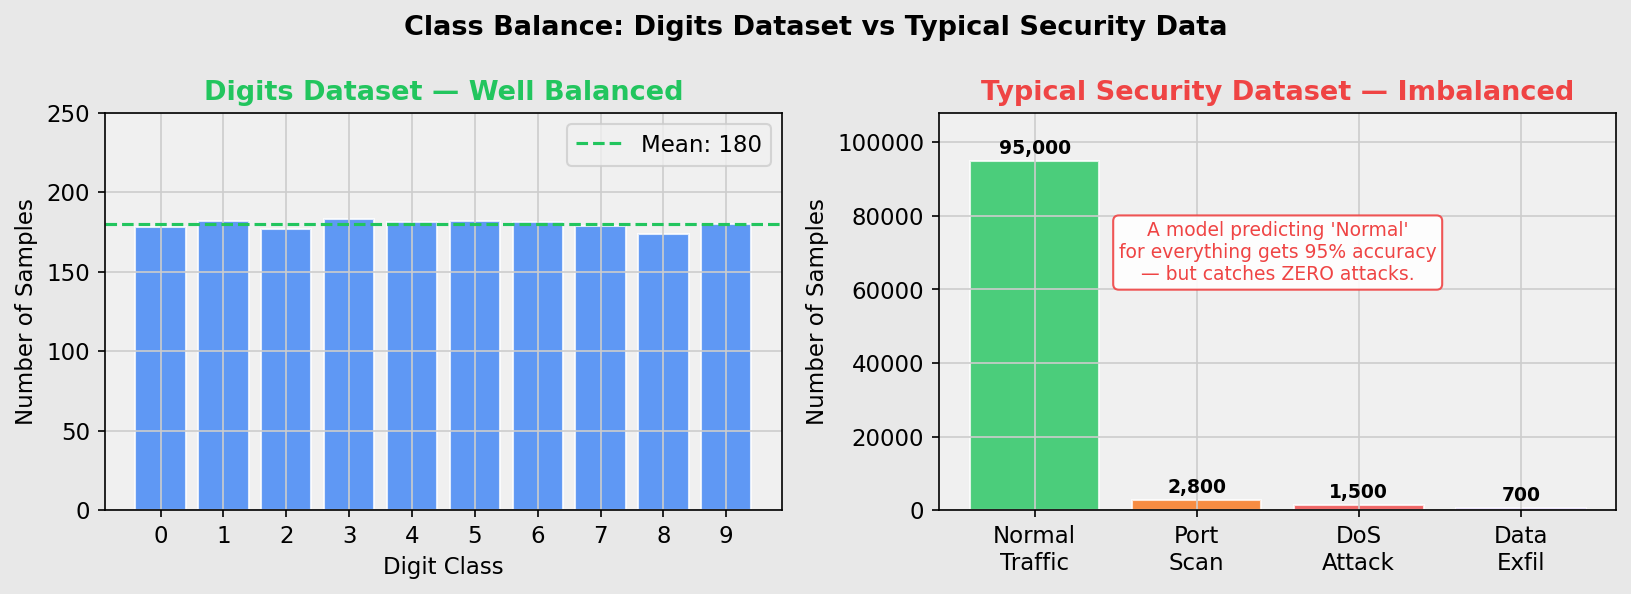
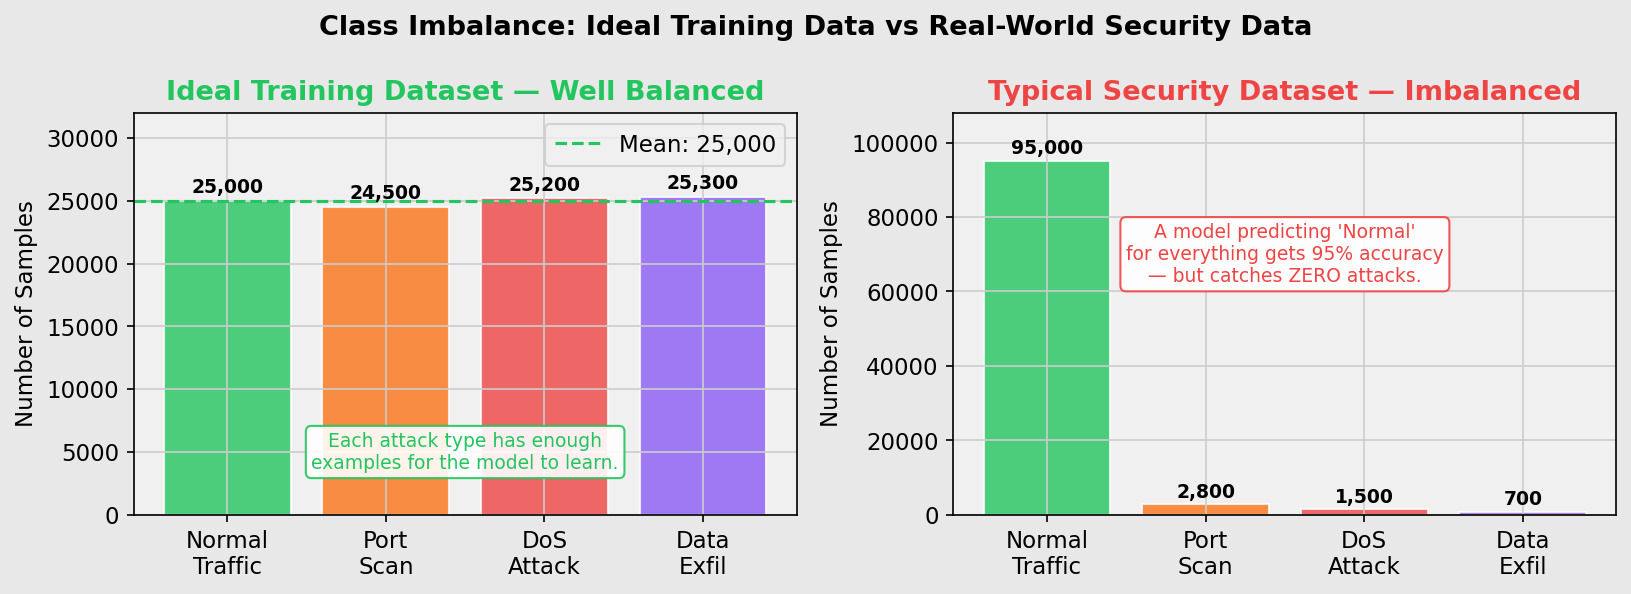
Replace digits chart with security-relevant balanced dataset example
Left chart was showing scikit-learn digits dataset (classes 0-9) which
had no obvious connection to the security context. Replaced with an
'Ideal Training Dataset' using the same 4 security categories as the
right chart (Normal/Port Scan/DoS/Data Exfil), making the balanced vs
imbalanced comparison direct and self-explanatory.

diff --git a/generate_assets.py b/generate_assets.py
@@ -147,17 +147,26 @@ def fig_three_types_of_ml():
 # ── 3. Class Imbalance ────────────────────────────────────────────────────────
 def fig_class_imbalance():
     fig, (ax1, ax2) = plt.subplots(1, 2, figsize=(11, 4))
-    fig.suptitle("Class Balance: Digits Dataset vs Typical Security Data", fontsize=13, fontweight="bold")
+    fig.suptitle("Class Imbalance: Ideal Training Data vs Real-World Security Data", fontsize=13, fontweight="bold")
 
-    # Balanced (digits)
-    counts_balanced = [178, 182, 177, 183, 181, 182, 181, 179, 174, 180]
-    ax1.bar(range(10), counts_balanced, color=BLUE, alpha=0.8, edgecolor="white")
-    ax1.set_title("Digits Dataset — Well Balanced", color=GREEN)
-    ax1.set_xlabel("Digit Class"); ax1.set_ylabel("Number of Samples")
-    ax1.set_xticks(range(10))
-    ax1.set_ylim(0, 250)
-    ax1.axhline(np.mean(counts_balanced), color=GREEN, linestyle="--", linewidth=1.5, label=f"Mean: {np.mean(counts_balanced):.0f}")
+    # Balanced (ideal security dataset)
+    classes = ["Normal\nTraffic", "Port\nScan", "DoS\nAttack", "Data\nExfil"]
+    counts_balanced = [25000, 24500, 25200, 25300]
+    colors = [GREEN, ORANGE, RED, PURPLE]
+    bars1 = ax1.bar(classes, counts_balanced, color=colors, alpha=0.8, edgecolor="white")
+    ax1.set_title("Ideal Training Dataset — Well Balanced", color=GREEN)
+    ax1.set_ylabel("Number of Samples")
+    ax1.set_ylim(0, 32000)
+    mean_val = np.mean(counts_balanced)
+    ax1.axhline(mean_val, color=GREEN, linestyle="--", linewidth=1.5, label=f"Mean: {mean_val:,.0f}")
+    for bar, count in zip(bars1, counts_balanced):
+        ax1.text(bar.get_x() + bar.get_width()/2, bar.get_height() + 300,
+                 f"{count:,}", ha="center", va="bottom", fontsize=9, fontweight="bold")
     ax1.legend()
+    ax1.text(1.5, 5000,
+        "Each attack type has enough\nexamples for the model to learn.",
+        ha="center", va="center", fontsize=9, color=GREEN,
+        bbox=dict(boxstyle="round", facecolor="white", edgecolor=GREEN, alpha=0.9))
 
     # Imbalanced (security)
     classes = ["Normal\nTraffic", "Port\nScan", "DoS\nAttack", "Data\nExfil"]
